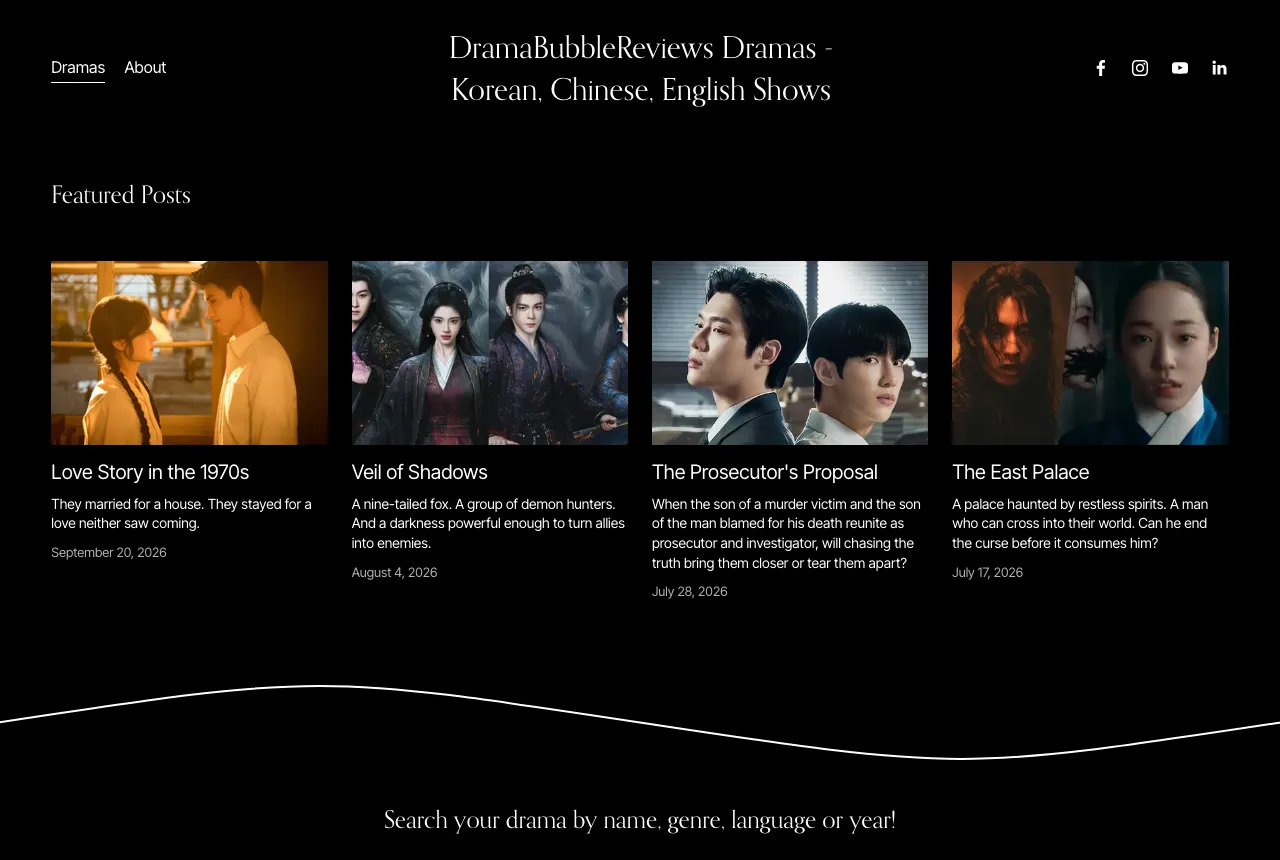
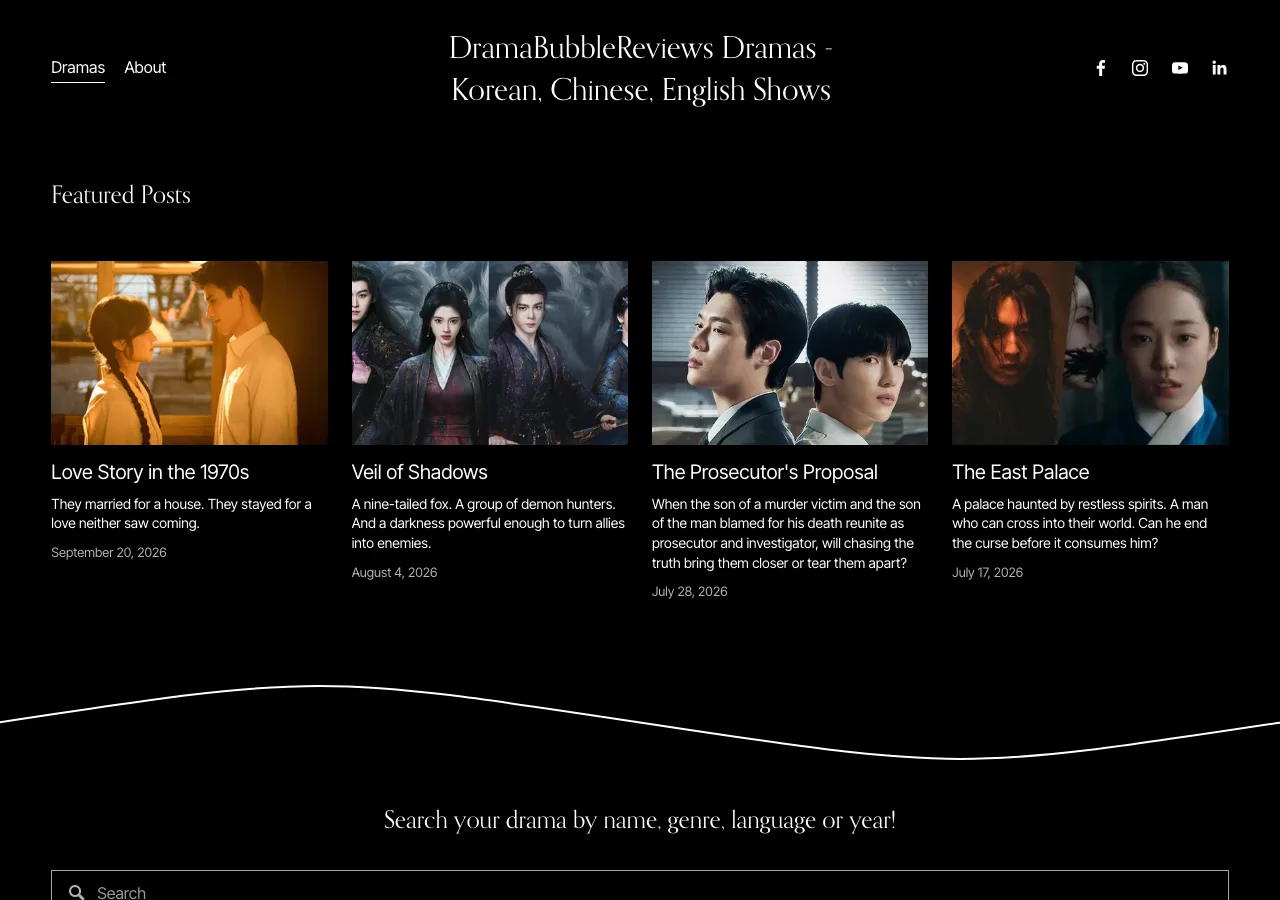
DramaBubble spread: correctly-proportioned live-site screenshot in browser frame

diff --git a/output/ananya-banerjee-portfolio/site/styles.css b/output/ananya-banerjee-portfolio/site/styles.css
@@ -333,9 +333,10 @@ p{max-width:64ch}
 .row-name.uni img{width:34px;height:34px;object-fit:contain;flex:none;border-radius:4px}
 
 /* live-site browser frame (DramaBubble) */
-.site-frame{position:absolute;inset:12% 7% 0;border:1px solid var(--rule);background:#0c0c0c;box-shadow:0 22px 44px rgba(28,23,16,.28);transform:rotate(-1.5deg);transition:transform .6s var(--ease);overflow:hidden}
+.site-frame{position:absolute;left:7%;right:7%;top:50%;transform:translateY(-50%) rotate(-1.5deg);border:1px solid var(--rule);background:#0c0c0c;box-shadow:0 22px 44px rgba(28,23,16,.28);transition:transform .6s var(--ease);overflow:hidden}
+.site-frame img{width:100%;height:auto;display:block}
 .site-frame .chrome{height:26px;display:flex;align-items:center;gap:6px;padding:0 12px;border-bottom:1px solid #2c2c2c}
 .site-frame .chrome span{width:8px;height:8px;border-radius:50%;background:#3d3d3d}
 .site-frame .chrome i{font-style:normal;font-size:10px;color:#8a8a8a;margin-left:10px;letter-spacing:.04em}
 .site-frame img{width:100%;height:auto}
-@media(hover:hover){.spread:hover .site-frame{transform:rotate(0) translateY(-6px)}}
+@media(hover:hover){.spread:hover .site-frame{transform:translateY(calc(-50% - 6px)) rotate(0)}}

diff --git a/output/ananya-banerjee-portfolio/site/index.html b/output/ananya-banerjee-portfolio/site/index.html
@@ -182,7 +182,7 @@
       <div class="panel-word"><span>DramaBubble</span><span>Reviews · Channels</span></div>
       <div class="site-frame">
           <div class="chrome"><span></span><span></span><span></span><i>dramabubblereviews.com</i></div>
-          <img src="images/dramabubble-site.webp" alt="DramaBubble Reviews website — featured drama reviews" width="1280" height="860" loading="lazy" decoding="async">
+          <img src="images/dramabubble-site.webp" alt="DramaBubble Reviews website — featured drama reviews" width="1280" height="900" loading="lazy" decoding="async">
         </div>
     </div>
   </article>
